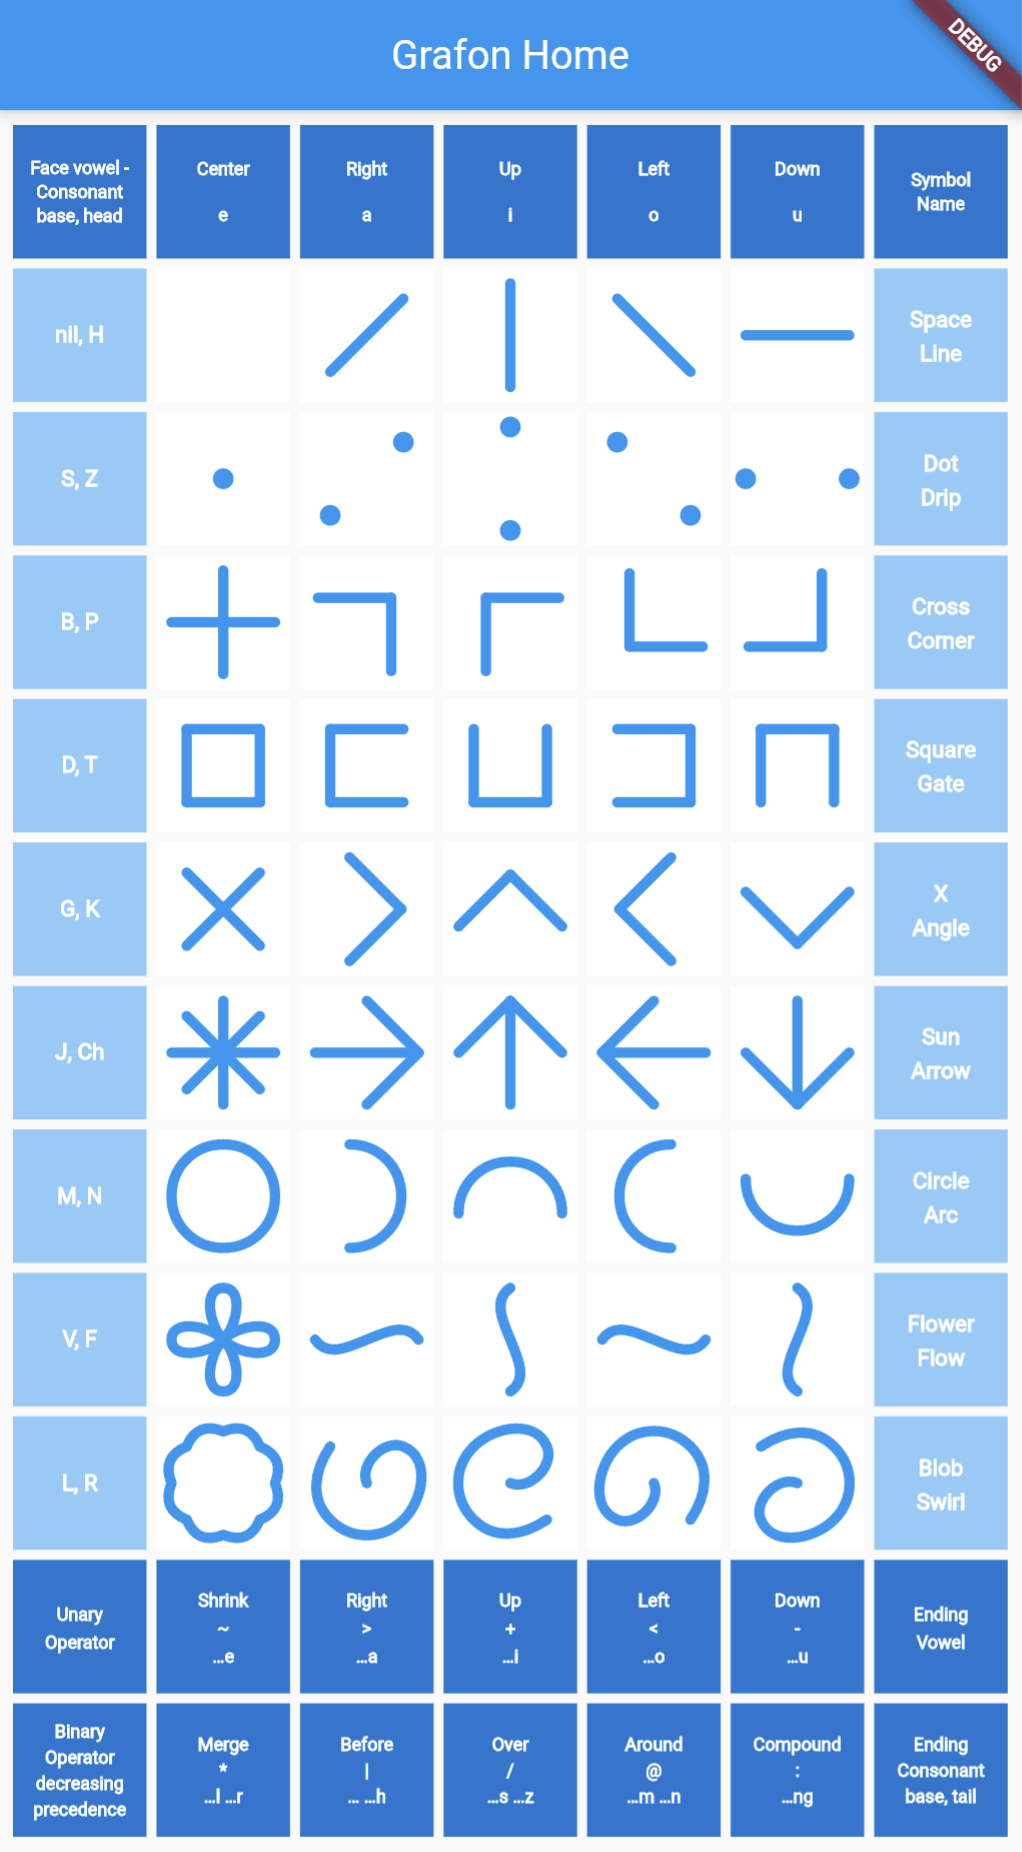
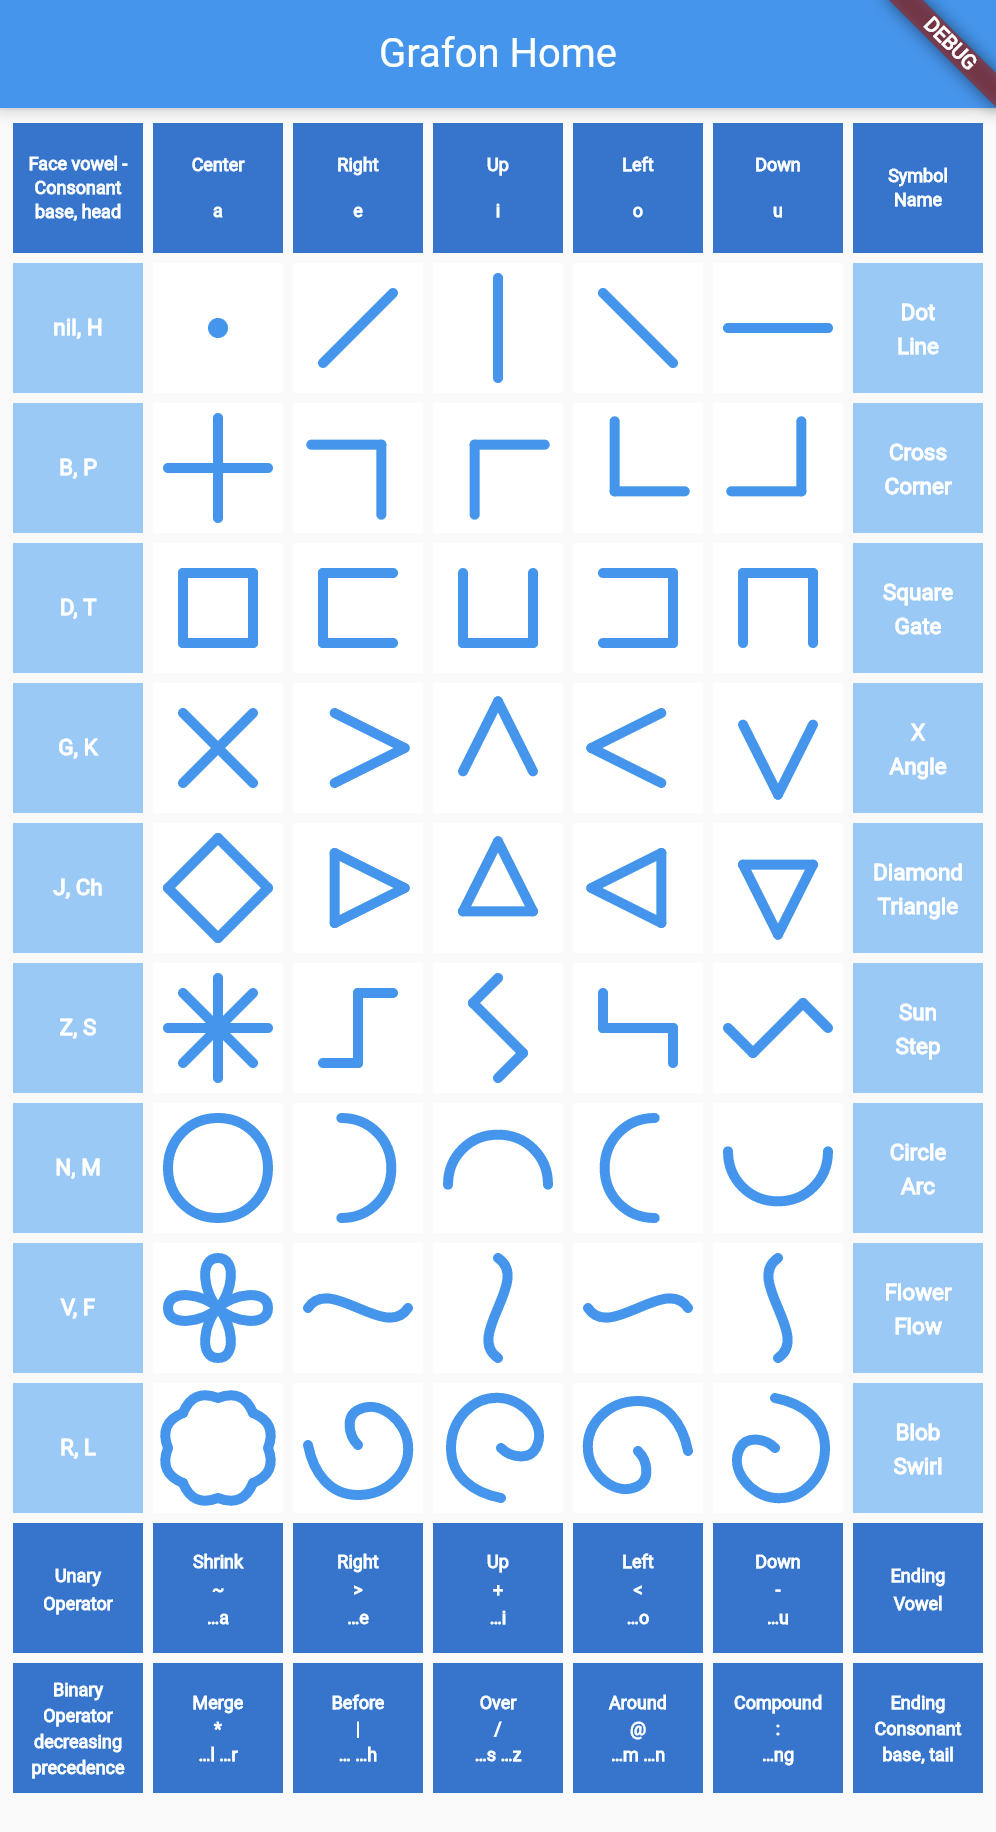
Finishing up massive refactoring to switch to cartesian from polar anchors. Dealt with floating point conversion precision errors. Added 4 more inner anchor points to help with changes to Gram Table. Updated README.md.

diff --git a/lib/gram_table.dart b/lib/gram_table.dart
@@ -186,7 +186,7 @@ enum Quads {
   Angle,
   Gate,
   Triangle,
-  Zap,
+  Step,
   Arc,
   Flow,
   Swirl,
@@ -203,7 +203,7 @@ class _QuadHelper {
   ];
 
   static final anglePaths = [
-    PolyLine.anchors([Anchor.N, Anchor.E, Anchor.S]),
+    PolyLine.anchors([Anchor.NW, Anchor.IE, Anchor.SW]),
   ];
 
   static final gatePaths = [
@@ -211,11 +211,11 @@ class _QuadHelper {
   ];
 
   static final trianglePaths = [
-    PolyLine.anchors([Anchor.N, Anchor.E, Anchor.S, Anchor.N])
+    PolyLine.anchors([Anchor.NW, Anchor.IE, Anchor.SW, Anchor.NW])
   ];
 
-  static final zapPaths = [
-    PolyLine.anchors([Anchor.W, Anchor.IS, Anchor.IN, Anchor.E])
+  static final stepPaths = [
+    PolyLine.anchors([Anchor.SW, Anchor.IS, Anchor.IN, Anchor.NE])
   ];
 
   static final arcPaths = [
@@ -255,7 +255,7 @@ class _QuadHelper {
     Quads.Angle: RotatingQuads(anglePaths, ConsPair.GAKA),
     Quads.Gate: RotatingQuads(gatePaths, ConsPair.DATA),
     Quads.Triangle: RotatingQuads(trianglePaths, ConsPair.JACHA),
-    Quads.Zap: FlipQuads(zapPaths, ConsPair.ZASA),
+    Quads.Step: SemiRotatingQuads(stepPaths, ConsPair.ZASA),
     Quads.Arc: RotatingQuads(arcPaths, ConsPair.NAMA),
     Quads.Flow: FlipQuads(flowPaths, ConsPair.VAFA),
     Quads.Swirl: DoubleFlipQuads(swirlPaths, ConsPair.RALA),

diff --git a/lib/gram_infra.dart b/lib/gram_infra.dart
@@ -102,7 +102,7 @@ enum Anchor {
 /// Vector2 is used internally but always round to nearest integer.
 extension AnchorHelper on Anchor {
   static const OUTER_DIST = .5;
-  static const INNER_DIST = .25;
+  static const INNER_DIST = .35;
 
   static const List<Anchor> outerPoints = const [
     Anchor.E,
